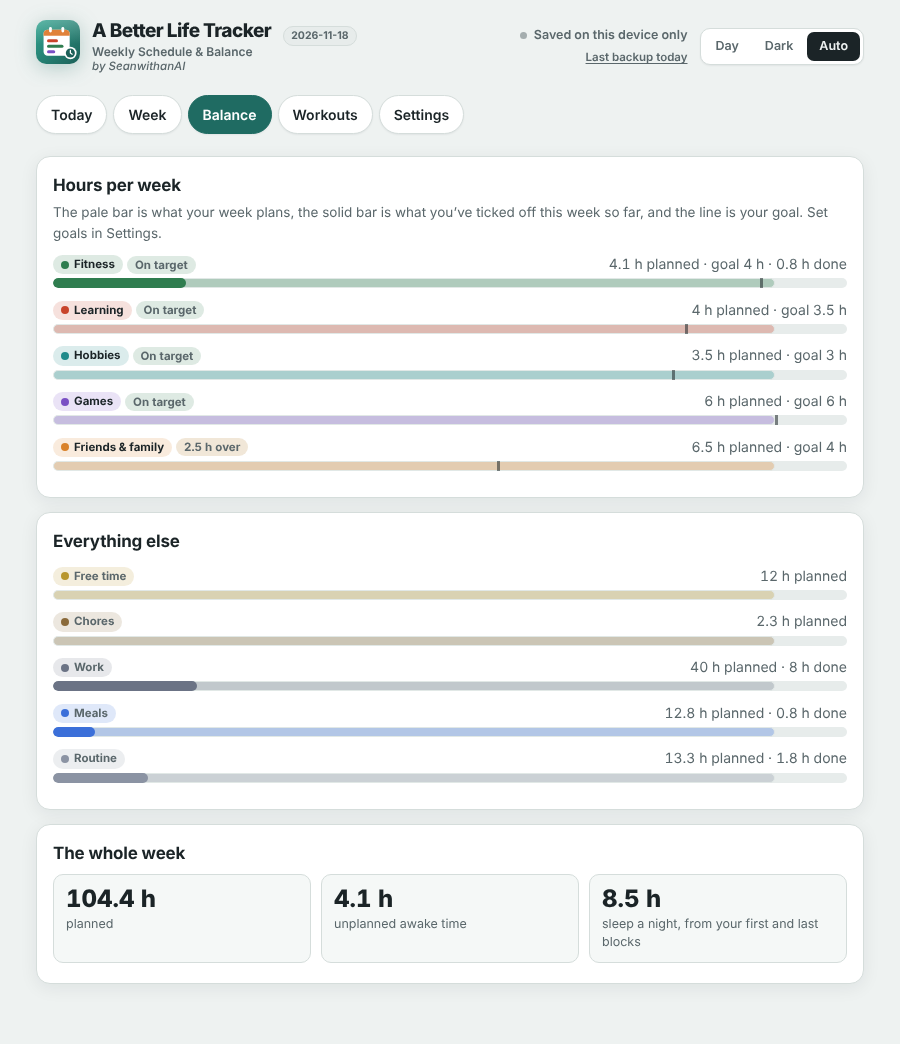
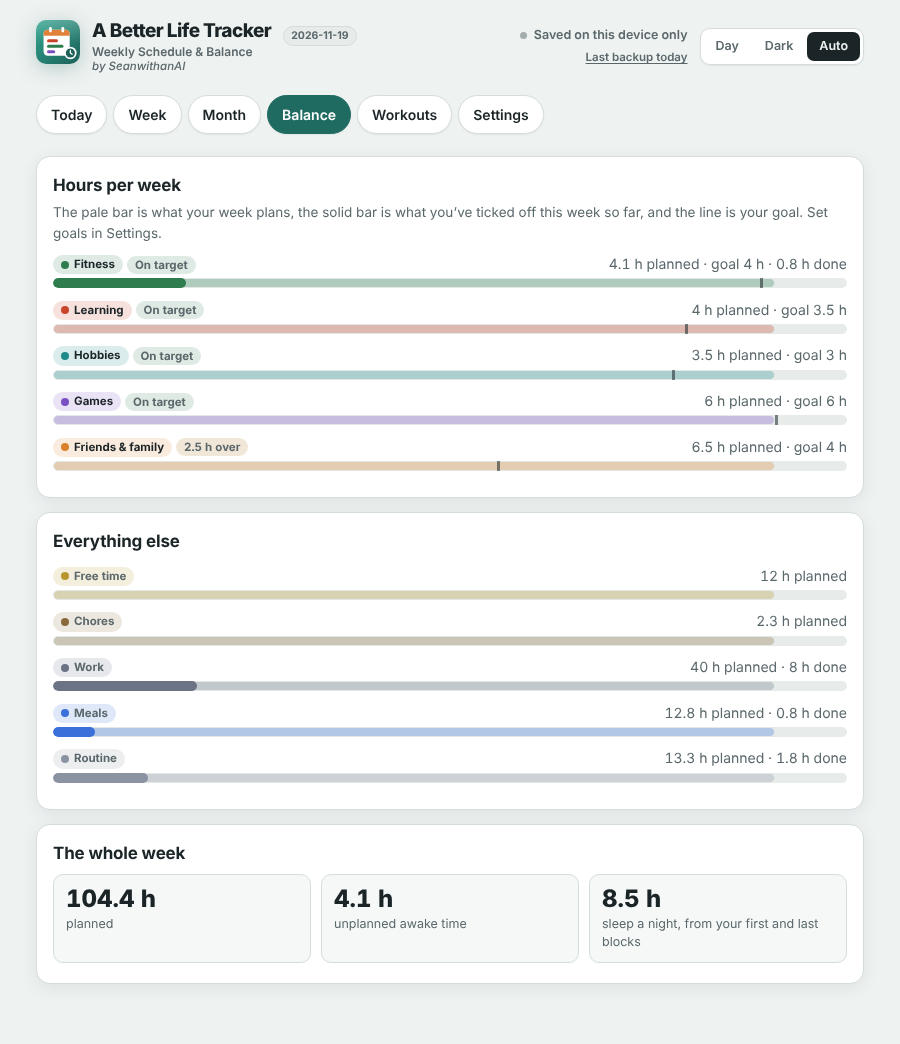
A Better Life Tracker 2026-11-19: Month tab
Claude-Session: https://claude.ai/code/session_01JotVZ2CZVdeWnjigzjv7CQ

Changed region(s): [[0.1867, 0.092, 0.4978, 0.1533], [0.5289, 0.092, 0.5911, 0.1226]]

diff --git a/A-Better-Life-Tracker-2026-11-19.html b/A-Better-Life-Tracker-2026-11-19.html
@@ -153,6 +153,37 @@
   .wsched .ws b{font-size:15px}
   .wsched .ws.td{border-color:var(--shu);box-shadow:inset 0 0 0 1px var(--shu)}
   .wsched .ws.ok b::after{content:" ✓";color:var(--good)}
+  /* month */
+  .mhead{display:flex;align-items:center;justify-content:space-between;gap:8px;margin-bottom:10px}
+  .mhead b{font-size:17px}
+  .mnav{display:flex;gap:6px}
+  .mdow,.mgrid{display:grid;grid-template-columns:repeat(7,minmax(0,1fr));gap:4px}
+  .mdow span{font-size:11.5px;font-weight:700;color:var(--ink-soft);text-align:center;padding-bottom:2px}
+  .mcell{font:inherit;text-align:left;color:var(--ink);min-height:96px;border:1px solid var(--line);border-radius:9px;padding:5px;background:var(--surface-2);cursor:pointer;display:flex;flex-direction:column;gap:3px;min-width:0;overflow:hidden}
+  .mcell:hover{border-color:var(--accent)}
+  .mcell.out{opacity:.45}
+  .mcell.td{border-color:var(--shu);box-shadow:inset 0 0 0 1px var(--shu)}
+  .mcell .mtop{display:flex;justify-content:space-between;align-items:center;gap:2px}
+  .mcell .mnum{font-weight:800;font-size:13px}
+  .mcell .mprog{font-size:10.5px;font-weight:700;color:var(--ink-soft);font-variant-numeric:tabular-nums}
+  .mcell .mprog.full{color:var(--good)}
+  .mstack{display:flex;height:7px;border-radius:999px;overflow:hidden;background:var(--line-soft)}
+  .mstack i{display:block;height:100%}
+  .mtag{font-size:10.5px;font-weight:700;line-height:1.35;border-radius:4px;padding:0 4px;white-space:nowrap;overflow:hidden;text-overflow:ellipsis;background:color-mix(in srgb,var(--c) 18%,transparent)}
+  .mtag.done{text-decoration:line-through;opacity:.6}
+  .mcnt{display:none;flex-wrap:wrap;gap:3px;margin-top:2px}
+  .mcnt i{width:8px;height:8px;border-radius:50%;background:var(--c)}
+  .mcnt i.done{opacity:.35}
+  .mbox > *{flex:none}
+  .mphone{display:none}
+  .legend{display:flex;flex-wrap:wrap;gap:6px;margin-top:12px}
+  @media (max-width:560px){
+    .mcell{min-height:66px;padding:4px 3px}
+    .mcell .mtag,.mcell .mmore{display:none}
+    .mcell .mcnt{display:flex}
+    .mcell .mprog{display:none}
+    .mphone{display:inline}
+  }
   .catrow{display:grid;grid-template-columns:42px minmax(0,1fr) 92px auto;gap:8px;align-items:center;margin:6px 0}
   .iconbtn{border:0;background:none;color:var(--ink-soft);cursor:pointer;font-size:15px;padding:6px 8px;border-radius:6px;font:inherit}
   .iconbtn:hover{color:var(--ink);background:var(--line-soft)}
@@ -185,7 +216,7 @@
 <body>
 <div id="nojs" style="max-width:560px;width:calc(100% - 32px);box-sizing:border-box;margin:40px auto;padding:22px 24px;border:1px solid #E4E7EC;border-radius:16px;background:#fff;color:#101828;font:15px/1.6 system-ui,-apple-system,sans-serif">
   <h1 style="font-size:24px;font-weight:800;margin:0 0 6px;letter-spacing:-.02em">A Better Life Tracker</h1>
-  <p style="margin:0 0 14px;color:#667085;font-weight:600">Weekly Schedule &amp; Balance · Version 2026-11-18 · by SeanwithanAI</p>
+  <p style="margin:0 0 14px;color:#667085;font-weight:600">Weekly Schedule &amp; Balance · Version 2026-11-19 · by SeanwithanAI</p>
   <p style="margin:8px 0 0">This preview can’t run the app. Previews like the iPhone Files app show web pages without running them, so it stays blank here. To use it:</p>
   <p style="margin:8px 0 0"><b>Easiest, on any device:</b> use it online at <a href="https://seanwithanai.github.io/A-Better-Life-Tracker/">seanwithanai.github.io/A-Better-Life-Tracker</a>. Nothing to install, and your data stays in your browser on your device.</p>
   <p style="margin:8px 0 0"><b>On a computer:</b> double-click the file, or drag it onto Chrome, Edge, Firefox or Safari.</p>
@@ -197,7 +228,7 @@
   <header>
     <div class="brand"><svg class="logo" role="img" aria-label="A Better Life Tracker logo" xmlns="http://www.w3.org/2000/svg" viewBox="0 0 64 64"><defs><linearGradient id="hbg" x1="0" y1="0" x2="1" y2="1"><stop offset="0" stop-color="#2FA38F"/><stop offset="1" stop-color="#1D6159"/></linearGradient><linearGradient id="hgl" x1="0" y1="0" x2="0" y2="1"><stop offset="0" stop-color="#fff" stop-opacity=".22"/><stop offset=".55" stop-color="#fff" stop-opacity="0"/></linearGradient></defs><rect width="64" height="64" rx="15" fill="url(#hbg)"/><rect width="64" height="64" rx="15" fill="url(#hgl)"/><rect x="11" y="14" width="38" height="38" rx="6" fill="#fff"/><path d="M11 20a6 6 0 0 1 6-6h26a6 6 0 0 1 6 6v3H11z" fill="#E0823A"/><rect x="19" y="10" width="4" height="8" rx="2" fill="#fff"/><rect x="37" y="10" width="4" height="8" rx="2" fill="#fff"/><rect x="16" y="28" width="16" height="4.5" rx="2.25" fill="#C8442B"/><rect x="16" y="36" width="24" height="4.5" rx="2.25" fill="#2F7D4F"/><rect x="16" y="44" width="12" height="4.5" rx="2.25" fill="#7A4FC4"/><circle cx="50" cy="48" r="9" fill="#fff"/><circle cx="50" cy="48" r="6.6" fill="#1D6159"/><path d="M50 44.2V48l2.6 1.8" stroke="#fff" stroke-width="1.8" fill="none" stroke-linecap="round" stroke-linejoin="round"/></svg>
       <span class="bname">A Better Life Tracker<small>Weekly Schedule &amp; Balance</small><small class="by">by SeanwithanAI</small></span>
-      <span class="ver" id="appVer">2026-11-18</span></div>
+      <span class="ver" id="appVer">2026-11-19</span></div>
     <div class="headright">
       <span class="syncwrap"><span class="sync" id="sync" role="status">Loading…</span>
       <button type="button" class="nudge" id="nudge" hidden></button></span>
@@ -216,12 +247,14 @@
   <nav class="tabs" role="tablist" aria-label="Sections">
     <button role="tab" data-v="today" aria-selected="true">Today</button>
     <button role="tab" data-v="week" aria-selected="false">Week</button>
+    <button role="tab" data-v="month" aria-selected="false">Month</button>
     <button role="tab" data-v="balance" aria-selected="false">Balance</button>
     <button role="tab" data-v="workouts" aria-selected="false">Workouts</button>
     <button role="tab" data-v="settings" aria-selected="false">Settings</button>
   </nav>
   <section class="view stack" id="v-today"></section>
   <section class="view stack" id="v-week" hidden></section>
+  <section class="view stack" id="v-month" hidden></section>
   <section class="view stack" id="v-balance" hidden></section>
   <section class="view stack" id="v-workouts" hidden></section>
   <section class="view stack" id="v-settings" hidden></section>
@@ -293,7 +326,7 @@ async function downloadBundle(o){
 }
 
 /* ================================================================ app */
-const APP_NAME = 'A Better Life Tracker', APP_VERSION = '2026-11-18', APP_BY = 'SeanwithanAI';   // bump the version with every update
+const APP_NAME = 'A Better Life Tracker', APP_VERSION = '2026-11-19', APP_BY = 'SeanwithanAI';   // bump the version with every update
 const FILE_BASE = APP_NAME.replace(/ /g, '-');   // A-Better-Life-Tracker
 const KEY = 'lifetracker-v1', THEME_KEY = 'lifetracker-theme';
 const DAY = 864e5, BK_DAYS = 7;
@@ -474,7 +507,7 @@ applyTheme((() => { try{ return localStorage.getItem(THEME_KEY) || 'auto'; }catc
 document.querySelectorAll('#theme button').forEach(b => b.onclick = () => { try{ localStorage.setItem(THEME_KEY, b.dataset.t); }catch(e){} applyTheme(b.dataset.t); });
 
 /* ---- tabs ---- */
-const VIEWS = ['today', 'week', 'balance', 'workouts', 'settings'];
+const VIEWS = ['today', 'week', 'month', 'balance', 'workouts', 'settings'];
 let view = 'today', weekDay = dow(today());
 function go(v){
   if(!VIEWS.includes(v)) v = 'today';
@@ -485,7 +518,7 @@ function go(v){
   render();
 }
 document.querySelectorAll('nav.tabs button').forEach(b => b.onclick = () => { go(b.dataset.v); window.scrollTo({top:0}); });
-function render(){ ({today:renderToday, week:renderWeek, balance:renderBalance, workouts:renderWorkouts, settings:renderSettings})[view](); }
+function render(){ ({today:renderToday, week:renderWeek, month:renderMonth, balance:renderBalance, workouts:renderWorkouts, settings:renderSettings})[view](); }
 
 /* ================================================================ chores from a calendar file (.ics) */
 const unesc = s => String(s || '').replace(/\\n/gi, '\n').replace(/\\([,;\\])/g, '$1').trim();
@@ -751,6 +784,61 @@ function copyDay(){
     days.forEach(dd => src.forEach(b => S.blocks.push({...b, id:uid(), day:dd})));
     save(); closeModal(); renderWeek(); toast('Copied to ' + days.map(dd => DOW3[dd]).join(', '));
   };
+}
+
+/* ================================================================ Month */
+let monthCur = new Date(today().getFullYear(), today().getMonth(), 1);
+const MAIN_SKIP = ['work', 'routine', 'meals'];
+function renderMonth(){
+  const el = $('v-month'), y = monthCur.getFullYear(), m = monthCur.getMonth();
+  const first = new Date(y, m, 1), last = new Date(y, m + 1, 0), start = mondayOf(first);
+  const weeks = Math.ceil((dow(first) + last.getDate()) / 7), tdS = todayStr();
+  let cells = '', choreN = 0, fitN = 0;
+  for(let i = 0; i < weeks * 7; i++){
+    const d = addDays(start, i), k = ymd(d), inM = d.getMonth() === m, bl = dayBlocks(dow(d)), ch = choresOn(d);
+    if(inM){ choreN += ch.length; fitN += bl.filter(b => b.kind === 'lift' || b.kind === 'run').length; }
+    // the day's planned hours by category, as one thin bar
+    const hrs = {}; let tot = 0;
+    bl.forEach(b => { hrs[b.cat] = (hrs[b.cat] || 0) + dur(b); tot += dur(b); });
+    const stack = tot ? S.cats.filter(c => hrs[c.id]).map(c => `<i style="width:${hrs[c.id] / tot * 100}%;background:${esc(c.color)}"></i>`).join('') : '';
+    const goals = bl.filter(b => !MAIN_SKIP.includes(b.cat)), gd = goals.filter(b => isDone(d, b.id)).length;
+    const showProg = k <= tdS && goals.length;
+    const fit = bl.filter(b => b.kind === 'lift' || b.kind === 'run').map(b => `<span class="mtag${isDone(d, b.id) ? ' done' : ''}" style="--c:${esc(catById(b.cat).color)}">${b.kind === 'lift' ? 'Lift ' + liftLetter(b, d) : 'Run'}</span>`).join('');
+    const chores = ch.slice(0, 3).map(c => `<span class="mtag${choreDone(d, c.id) ? ' done' : ''}" style="--c:${esc(catById('chores').color)}">${esc(c.title)}</span>`).join('') + (ch.length > 3 ? `<span class="note mmore" style="font-size:10.5px">+${ch.length - 3} more</span>` : '');
+    // on a phone: a dot for each workout and chore
+    const cnt = bl.filter(b => b.kind === 'lift' || b.kind === 'run').map(b => `<i class="${isDone(d, b.id) ? 'done' : ''}" style="--c:${esc(catById(b.cat).color)}"></i>`).join('')
+      + ch.map(c => `<i class="${choreDone(d, c.id) ? 'done' : ''}" style="--c:${esc(catById('chores').color)}"></i>`).join('');
+    cells += `<button type="button" class="mcell${inM ? '' : ' out'}${k === tdS ? ' td' : ''}" data-mday="${k}" aria-label="${esc(longD(d))}">
+      <span class="mtop"><span class="mnum">${d.getDate()}</span>${showProg ? `<span class="mprog${gd === goals.length ? ' full' : ''}">${gd}/${goals.length}</span>` : ''}</span>
+      ${stack ? `<span class="mstack">${stack}</span>` : ''}${fit}${chores}<span class="mcnt">${cnt}</span></button>`;
+  }
+  const used = S.cats.filter(c => S.blocks.some(b => b.cat === c.id));
+  el.innerHTML = `<div class="card">
+    <div class="mhead"><b>${first.toLocaleDateString(undefined, {month:'long', year:'numeric'})}</b>
+      <span class="mnav"><button class="btn sm" id="mPrev" aria-label="Previous month">‹</button><button class="btn sm" id="mToday">Today</button><button class="btn sm" id="mNext" aria-label="Next month">›</button></span></div>
+    <p class="hint">Each day shows its plan as a colored bar, plus workouts and chores due. Past days show how many activities you ticked off. Tap a day to see all of it.<span class="mphone"> On a phone, each dot is a workout or a chore.</span></p>
+    <div class="mdow">${DOW3.map(x => `<span>${x}</span>`).join('')}</div>
+    <div class="mgrid">${cells}</div>
+    <div class="legend">${used.map(c => chip(c.id)).join('')}</div></div>
+    <div class="card"><h2>This month</h2><div class="tiles">
+      <div class="tile"><span class="big">${fitN}</span><span class="lbl">workouts planned</span></div>
+      <div class="tile"><span class="big">${choreN}</span><span class="lbl">chores due</span></div></div></div>`;
+  $('mPrev').onclick = () => { monthCur = new Date(y, m - 1, 1); renderMonth(); };
+  $('mNext').onclick = () => { monthCur = new Date(y, m + 1, 1); renderMonth(); };
+  $('mToday').onclick = () => { monthCur = new Date(today().getFullYear(), today().getMonth(), 1); renderMonth(); };
+  el.querySelectorAll('[data-mday]').forEach(b => b.onclick = () => openDay(parseYmd(b.dataset.mday)));
+}
+function openDay(d){
+  const bl = dayBlocks(dow(d)), ch = choresOn(d);
+  openModal(`<h2>${DOW[dow(d)]}, ${esc(longD(d))}</h2>
+    ${bl.length ? `<div class="plan">${bl.map(b => blockRow(b, d)).join('')}</div>` : '<p class="empty">Nothing planned this day.</p>'}
+    <div><b>Chores</b>${ch.length ? ch.map(c => choreRow(c, d)).join('') : '<p class="empty" style="margin:4px 0 0">No chores due.</p>'}</div>
+    <div class="acts"><button class="btn grow" id="dWeek">Edit ${DOW[dow(d)]} on the Week tab</button><button class="btn pri" id="dClose">Close</button></div>`);
+  const box = $('mbox');
+  box.querySelectorAll('[data-done]').forEach(i => i.onchange = () => { setDone(d, i.dataset.done, i.checked); openDay(d); renderMonth(); });
+  box.querySelectorAll('[data-chore]').forEach(i => i.onchange = () => { setChoreDone(d, i.dataset.chore, i.checked); openDay(d); renderMonth(); });
+  $('dClose').onclick = closeModal;
+  $('dWeek').onclick = () => { closeModal(); weekDay = dow(d); go('week'); };
 }
 
 /* ================================================================ Balance */

diff --git a/docs/index.html b/docs/index.html
@@ -153,6 +153,37 @@
   .wsched .ws b{font-size:15px}
   .wsched .ws.td{border-color:var(--shu);box-shadow:inset 0 0 0 1px var(--shu)}
   .wsched .ws.ok b::after{content:" ✓";color:var(--good)}
+  /* month */
+  .mhead{display:flex;align-items:center;justify-content:space-between;gap:8px;margin-bottom:10px}
+  .mhead b{font-size:17px}
+  .mnav{display:flex;gap:6px}
+  .mdow,.mgrid{display:grid;grid-template-columns:repeat(7,minmax(0,1fr));gap:4px}
+  .mdow span{font-size:11.5px;font-weight:700;color:var(--ink-soft);text-align:center;padding-bottom:2px}
+  .mcell{font:inherit;text-align:left;color:var(--ink);min-height:96px;border:1px solid var(--line);border-radius:9px;padding:5px;background:var(--surface-2);cursor:pointer;display:flex;flex-direction:column;gap:3px;min-width:0;overflow:hidden}
+  .mcell:hover{border-color:var(--accent)}
+  .mcell.out{opacity:.45}
+  .mcell.td{border-color:var(--shu);box-shadow:inset 0 0 0 1px var(--shu)}
+  .mcell .mtop{display:flex;justify-content:space-between;align-items:center;gap:2px}
+  .mcell .mnum{font-weight:800;font-size:13px}
+  .mcell .mprog{font-size:10.5px;font-weight:700;color:var(--ink-soft);font-variant-numeric:tabular-nums}
+  .mcell .mprog.full{color:var(--good)}
+  .mstack{display:flex;height:7px;border-radius:999px;overflow:hidden;background:var(--line-soft)}
+  .mstack i{display:block;height:100%}
+  .mtag{font-size:10.5px;font-weight:700;line-height:1.35;border-radius:4px;padding:0 4px;white-space:nowrap;overflow:hidden;text-overflow:ellipsis;background:color-mix(in srgb,var(--c) 18%,transparent)}
+  .mtag.done{text-decoration:line-through;opacity:.6}
+  .mcnt{display:none;flex-wrap:wrap;gap:3px;margin-top:2px}
+  .mcnt i{width:8px;height:8px;border-radius:50%;background:var(--c)}
+  .mcnt i.done{opacity:.35}
+  .mbox > *{flex:none}
+  .mphone{display:none}
+  .legend{display:flex;flex-wrap:wrap;gap:6px;margin-top:12px}
+  @media (max-width:560px){
+    .mcell{min-height:66px;padding:4px 3px}
+    .mcell .mtag,.mcell .mmore{display:none}
+    .mcell .mcnt{display:flex}
+    .mcell .mprog{display:none}
+    .mphone{display:inline}
+  }
   .catrow{display:grid;grid-template-columns:42px minmax(0,1fr) 92px auto;gap:8px;align-items:center;margin:6px 0}
   .iconbtn{border:0;background:none;color:var(--ink-soft);cursor:pointer;font-size:15px;padding:6px 8px;border-radius:6px;font:inherit}
   .iconbtn:hover{color:var(--ink);background:var(--line-soft)}
@@ -185,7 +216,7 @@
 <body>
 <div id="nojs" style="max-width:560px;width:calc(100% - 32px);box-sizing:border-box;margin:40px auto;padding:22px 24px;border:1px solid #E4E7EC;border-radius:16px;background:#fff;color:#101828;font:15px/1.6 system-ui,-apple-system,sans-serif">
   <h1 style="font-size:24px;font-weight:800;margin:0 0 6px;letter-spacing:-.02em">A Better Life Tracker</h1>
-  <p style="margin:0 0 14px;color:#667085;font-weight:600">Weekly Schedule &amp; Balance · Version 2026-11-18 · by SeanwithanAI</p>
+  <p style="margin:0 0 14px;color:#667085;font-weight:600">Weekly Schedule &amp; Balance · Version 2026-11-19 · by SeanwithanAI</p>
   <p style="margin:8px 0 0">This preview can’t run the app. Previews like the iPhone Files app show web pages without running them, so it stays blank here. To use it:</p>
   <p style="margin:8px 0 0"><b>Easiest, on any device:</b> use it online at <a href="https://seanwithanai.github.io/A-Better-Life-Tracker/">seanwithanai.github.io/A-Better-Life-Tracker</a>. Nothing to install, and your data stays in your browser on your device.</p>
   <p style="margin:8px 0 0"><b>On a computer:</b> double-click the file, or drag it onto Chrome, Edge, Firefox or Safari.</p>
@@ -197,7 +228,7 @@
   <header>
     <div class="brand"><svg class="logo" role="img" aria-label="A Better Life Tracker logo" xmlns="http://www.w3.org/2000/svg" viewBox="0 0 64 64"><defs><linearGradient id="hbg" x1="0" y1="0" x2="1" y2="1"><stop offset="0" stop-color="#2FA38F"/><stop offset="1" stop-color="#1D6159"/></linearGradient><linearGradient id="hgl" x1="0" y1="0" x2="0" y2="1"><stop offset="0" stop-color="#fff" stop-opacity=".22"/><stop offset=".55" stop-color="#fff" stop-opacity="0"/></linearGradient></defs><rect width="64" height="64" rx="15" fill="url(#hbg)"/><rect width="64" height="64" rx="15" fill="url(#hgl)"/><rect x="11" y="14" width="38" height="38" rx="6" fill="#fff"/><path d="M11 20a6 6 0 0 1 6-6h26a6 6 0 0 1 6 6v3H11z" fill="#E0823A"/><rect x="19" y="10" width="4" height="8" rx="2" fill="#fff"/><rect x="37" y="10" width="4" height="8" rx="2" fill="#fff"/><rect x="16" y="28" width="16" height="4.5" rx="2.25" fill="#C8442B"/><rect x="16" y="36" width="24" height="4.5" rx="2.25" fill="#2F7D4F"/><rect x="16" y="44" width="12" height="4.5" rx="2.25" fill="#7A4FC4"/><circle cx="50" cy="48" r="9" fill="#fff"/><circle cx="50" cy="48" r="6.6" fill="#1D6159"/><path d="M50 44.2V48l2.6 1.8" stroke="#fff" stroke-width="1.8" fill="none" stroke-linecap="round" stroke-linejoin="round"/></svg>
       <span class="bname">A Better Life Tracker<small>Weekly Schedule &amp; Balance</small><small class="by">by SeanwithanAI</small></span>
-      <span class="ver" id="appVer">2026-11-18</span></div>
+      <span class="ver" id="appVer">2026-11-19</span></div>
     <div class="headright">
       <span class="syncwrap"><span class="sync" id="sync" role="status">Loading…</span>
       <button type="button" class="nudge" id="nudge" hidden></button></span>
@@ -216,12 +247,14 @@
   <nav class="tabs" role="tablist" aria-label="Sections">
     <button role="tab" data-v="today" aria-selected="true">Today</button>
     <button role="tab" data-v="week" aria-selected="false">Week</button>
+    <button role="tab" data-v="month" aria-selected="false">Month</button>
     <button role="tab" data-v="balance" aria-selected="false">Balance</button>
     <button role="tab" data-v="workouts" aria-selected="false">Workouts</button>
     <button role="tab" data-v="settings" aria-selected="false">Settings</button>
   </nav>
   <section class="view stack" id="v-today"></section>
   <section class="view stack" id="v-week" hidden></section>
+  <section class="view stack" id="v-month" hidden></section>
   <section class="view stack" id="v-balance" hidden></section>
   <section class="view stack" id="v-workouts" hidden></section>
   <section class="view stack" id="v-settings" hidden></section>
@@ -293,7 +326,7 @@ async function downloadBundle(o){
 }
 
 /* ================================================================ app */
-const APP_NAME = 'A Better Life Tracker', APP_VERSION = '2026-11-18', APP_BY = 'SeanwithanAI';   // bump the version with every update
+const APP_NAME = 'A Better Life Tracker', APP_VERSION = '2026-11-19', APP_BY = 'SeanwithanAI';   // bump the version with every update
 const FILE_BASE = APP_NAME.replace(/ /g, '-');   // A-Better-Life-Tracker
 const KEY = 'lifetracker-v1', THEME_KEY = 'lifetracker-theme';
 const DAY = 864e5, BK_DAYS = 7;
@@ -474,7 +507,7 @@ applyTheme((() => { try{ return localStorage.getItem(THEME_KEY) || 'auto'; }catc
 document.querySelectorAll('#theme button').forEach(b => b.onclick = () => { try{ localStorage.setItem(THEME_KEY, b.dataset.t); }catch(e){} applyTheme(b.dataset.t); });
 
 /* ---- tabs ---- */
-const VIEWS = ['today', 'week', 'balance', 'workouts', 'settings'];
+const VIEWS = ['today', 'week', 'month', 'balance', 'workouts', 'settings'];
 let view = 'today', weekDay = dow(today());
 function go(v){
   if(!VIEWS.includes(v)) v = 'today';
@@ -485,7 +518,7 @@ function go(v){
   render();
 }
 document.querySelectorAll('nav.tabs button').forEach(b => b.onclick = () => { go(b.dataset.v); window.scrollTo({top:0}); });
-function render(){ ({today:renderToday, week:renderWeek, balance:renderBalance, workouts:renderWorkouts, settings:renderSettings})[view](); }
+function render(){ ({today:renderToday, week:renderWeek, month:renderMonth, balance:renderBalance, workouts:renderWorkouts, settings:renderSettings})[view](); }
 
 /* ================================================================ chores from a calendar file (.ics) */
 const unesc = s => String(s || '').replace(/\\n/gi, '\n').replace(/\\([,;\\])/g, '$1').trim();
@@ -751,6 +784,61 @@ function copyDay(){
     days.forEach(dd => src.forEach(b => S.blocks.push({...b, id:uid(), day:dd})));
     save(); closeModal(); renderWeek(); toast('Copied to ' + days.map(dd => DOW3[dd]).join(', '));
   };
+}
+
+/* ================================================================ Month */
+let monthCur = new Date(today().getFullYear(), today().getMonth(), 1);
+const MAIN_SKIP = ['work', 'routine', 'meals'];
+function renderMonth(){
+  const el = $('v-month'), y = monthCur.getFullYear(), m = monthCur.getMonth();
+  const first = new Date(y, m, 1), last = new Date(y, m + 1, 0), start = mondayOf(first);
+  const weeks = Math.ceil((dow(first) + last.getDate()) / 7), tdS = todayStr();
+  let cells = '', choreN = 0, fitN = 0;
+  for(let i = 0; i < weeks * 7; i++){
+    const d = addDays(start, i), k = ymd(d), inM = d.getMonth() === m, bl = dayBlocks(dow(d)), ch = choresOn(d);
+    if(inM){ choreN += ch.length; fitN += bl.filter(b => b.kind === 'lift' || b.kind === 'run').length; }
+    // the day's planned hours by category, as one thin bar
+    const hrs = {}; let tot = 0;
+    bl.forEach(b => { hrs[b.cat] = (hrs[b.cat] || 0) + dur(b); tot += dur(b); });
+    const stack = tot ? S.cats.filter(c => hrs[c.id]).map(c => `<i style="width:${hrs[c.id] / tot * 100}%;background:${esc(c.color)}"></i>`).join('') : '';
+    const goals = bl.filter(b => !MAIN_SKIP.includes(b.cat)), gd = goals.filter(b => isDone(d, b.id)).length;
+    const showProg = k <= tdS && goals.length;
+    const fit = bl.filter(b => b.kind === 'lift' || b.kind === 'run').map(b => `<span class="mtag${isDone(d, b.id) ? ' done' : ''}" style="--c:${esc(catById(b.cat).color)}">${b.kind === 'lift' ? 'Lift ' + liftLetter(b, d) : 'Run'}</span>`).join('');
+    const chores = ch.slice(0, 3).map(c => `<span class="mtag${choreDone(d, c.id) ? ' done' : ''}" style="--c:${esc(catById('chores').color)}">${esc(c.title)}</span>`).join('') + (ch.length > 3 ? `<span class="note mmore" style="font-size:10.5px">+${ch.length - 3} more</span>` : '');
+    // on a phone: a dot for each workout and chore
+    const cnt = bl.filter(b => b.kind === 'lift' || b.kind === 'run').map(b => `<i class="${isDone(d, b.id) ? 'done' : ''}" style="--c:${esc(catById(b.cat).color)}"></i>`).join('')
+      + ch.map(c => `<i class="${choreDone(d, c.id) ? 'done' : ''}" style="--c:${esc(catById('chores').color)}"></i>`).join('');
+    cells += `<button type="button" class="mcell${inM ? '' : ' out'}${k === tdS ? ' td' : ''}" data-mday="${k}" aria-label="${esc(longD(d))}">
+      <span class="mtop"><span class="mnum">${d.getDate()}</span>${showProg ? `<span class="mprog${gd === goals.length ? ' full' : ''}">${gd}/${goals.length}</span>` : ''}</span>
+      ${stack ? `<span class="mstack">${stack}</span>` : ''}${fit}${chores}<span class="mcnt">${cnt}</span></button>`;
+  }
+  const used = S.cats.filter(c => S.blocks.some(b => b.cat === c.id));
+  el.innerHTML = `<div class="card">
+    <div class="mhead"><b>${first.toLocaleDateString(undefined, {month:'long', year:'numeric'})}</b>
+      <span class="mnav"><button class="btn sm" id="mPrev" aria-label="Previous month">‹</button><button class="btn sm" id="mToday">Today</button><button class="btn sm" id="mNext" aria-label="Next month">›</button></span></div>
+    <p class="hint">Each day shows its plan as a colored bar, plus workouts and chores due. Past days show how many activities you ticked off. Tap a day to see all of it.<span class="mphone"> On a phone, each dot is a workout or a chore.</span></p>
+    <div class="mdow">${DOW3.map(x => `<span>${x}</span>`).join('')}</div>
+    <div class="mgrid">${cells}</div>
+    <div class="legend">${used.map(c => chip(c.id)).join('')}</div></div>
+    <div class="card"><h2>This month</h2><div class="tiles">
+      <div class="tile"><span class="big">${fitN}</span><span class="lbl">workouts planned</span></div>
+      <div class="tile"><span class="big">${choreN}</span><span class="lbl">chores due</span></div></div></div>`;
+  $('mPrev').onclick = () => { monthCur = new Date(y, m - 1, 1); renderMonth(); };
+  $('mNext').onclick = () => { monthCur = new Date(y, m + 1, 1); renderMonth(); };
+  $('mToday').onclick = () => { monthCur = new Date(today().getFullYear(), today().getMonth(), 1); renderMonth(); };
+  el.querySelectorAll('[data-mday]').forEach(b => b.onclick = () => openDay(parseYmd(b.dataset.mday)));
+}
+function openDay(d){
+  const bl = dayBlocks(dow(d)), ch = choresOn(d);
+  openModal(`<h2>${DOW[dow(d)]}, ${esc(longD(d))}</h2>
+    ${bl.length ? `<div class="plan">${bl.map(b => blockRow(b, d)).join('')}</div>` : '<p class="empty">Nothing planned this day.</p>'}
+    <div><b>Chores</b>${ch.length ? ch.map(c => choreRow(c, d)).join('') : '<p class="empty" style="margin:4px 0 0">No chores due.</p>'}</div>
+    <div class="acts"><button class="btn grow" id="dWeek">Edit ${DOW[dow(d)]} on the Week tab</button><button class="btn pri" id="dClose">Close</button></div>`);
+  const box = $('mbox');
+  box.querySelectorAll('[data-done]').forEach(i => i.onchange = () => { setDone(d, i.dataset.done, i.checked); openDay(d); renderMonth(); });
+  box.querySelectorAll('[data-chore]').forEach(i => i.onchange = () => { setChoreDone(d, i.dataset.chore, i.checked); openDay(d); renderMonth(); });
+  $('dClose').onclick = closeModal;
+  $('dWeek').onclick = () => { closeModal(); weekDay = dow(d); go('week'); };
 }
 
 /* ================================================================ Balance */

diff --git a/README.md b/README.md
@@ -6,7 +6,7 @@
 
 **Weekly Schedule & Balance: plan your week in time blocks, tick them off each day, and see whether your hours match your goals**
 
-![Version](https://img.shields.io/badge/version-2026--11--18-1F6B62)
+![Version](https://img.shields.io/badge/version-2026--11--19-1F6B62)
 ![Single file](https://img.shields.io/badge/single%20file-HTML-E0823A)
 ![No account needed](https://img.shields.io/badge/no%20sign--up-required-334155)
 ![PageVault ready](https://img.shields.io/badge/PageVault-ready-2563eb)
@@ -29,6 +29,7 @@ A Better Life Tracker is a weekly planner for everything you're trying to fit in
 
 - **Today at a glance.** What you should be doing right now, how long is left and what's next, plus today's whole plan with a check box for each block and today's chores.
 - **Your week in time blocks.** Pick a day and tap any block to change its time, name, category or note. Add a block to several days at once, or copy a whole day onto others. Overlapping blocks are flagged.
+- **Month at a glance.** A calendar for any month: each day shows its plan as a colored bar, its workouts (Lift A, Lift B, Run) and the chores due, and past days show how many activities you ticked off. Tap a day to see its whole plan and chores, and tick them off from there. On a phone, workouts and chores show as dots.
 - **Categories and weekly goals.** Color-coded categories (Fitness, Learning, Hobbies, Games, Friends & family, Chores and more), each with an optional goal in hours a week. Rename them, recolor them and add your own.
 - **Balance.** For each category: hours planned, hours ticked off this week, and your goal, with *On target*, *short* or *over* at a glance. It also shows your total planned time, unplanned awake time and roughly how much sleep your schedule leaves.
 - **Workouts.** Lifting blocks alternate **Workout A** and **Workout B**, and each week picks up where the last one left off. Each workout has its own exercises, sets, reps, rest and a place to note the weight you use. Edit the exercises, run notes and tips to fit your own gym.
@@ -41,13 +42,13 @@ A Better Life Tracker is a weekly planner for everything you're trying to fit in
 
 ## Screenshots
 
-| Your week | Balance |
+| Your week | Month |
 |---|---|
-| ![Week: pick a day and tap a block to change it](docs/screenshots/week.png) | ![Balance: hours planned and done against each goal](docs/screenshots/balance.png) |
+| ![Week: pick a day and tap a block to change it](docs/screenshots/week.png) | ![Month: every day's plan, workouts and chores](docs/screenshots/month.png) |
 
-| Workouts |
-|---|
-| ![Workouts: this week's A/B rotation and runs, and each workout's exercises](docs/screenshots/workouts.png) |
+| Balance | Workouts |
+|---|---|
+| ![Balance: hours planned and done against each goal](docs/screenshots/balance.png) | ![Workouts: this week's A/B rotation and runs, and each workout's exercises](docs/screenshots/workouts.png) |
 
 ## Getting started
 
@@ -91,7 +92,7 @@ Moving between the two: back up on one side and **Restore from backup** on the o
 
 ## Versioning
 
-Only the newest release is kept in the repo: `A-Better-Life-Tracker-2026-11-18.html`. Each new release replaces it, and `docs/index.html` (what the web link opens) is updated to match. Your data isn't stored in the file, so moving to a new release keeps it.
+Only the newest release is kept in the repo: `A-Better-Life-Tracker-2026-11-19.html`. Each new release replaces it, and `docs/index.html` (what the web link opens) is updated to match. Your data isn't stored in the file, so moving to a new release keeps it.
 
 Releases are named with their date. The first release of a day is just the date; later releases that same day add `mk1`, `mk2`, `mk3`… (the count starts over each day). The version is also shown inside the app.
 
@@ -101,4 +102,5 @@ Every release so far, newest first. Older releases are listed for reference; onl
 
 | Version | Notes |
 |---|---|
+| **2026-11-19** | **Month** tab: a calendar of any month showing each day's plan, workouts and chores due, with how much you ticked off on past days. Tap a day for its full plan and chores. |
 | **2026-11-18** | First release. Today, Week, Balance, Workouts and Settings tabs; categories with weekly goals; an A/B lifting rotation; chores imported from a calendar file (`.ics`); your week exported as a calendar file; backups, the app + data zip, and PageVault support. |
